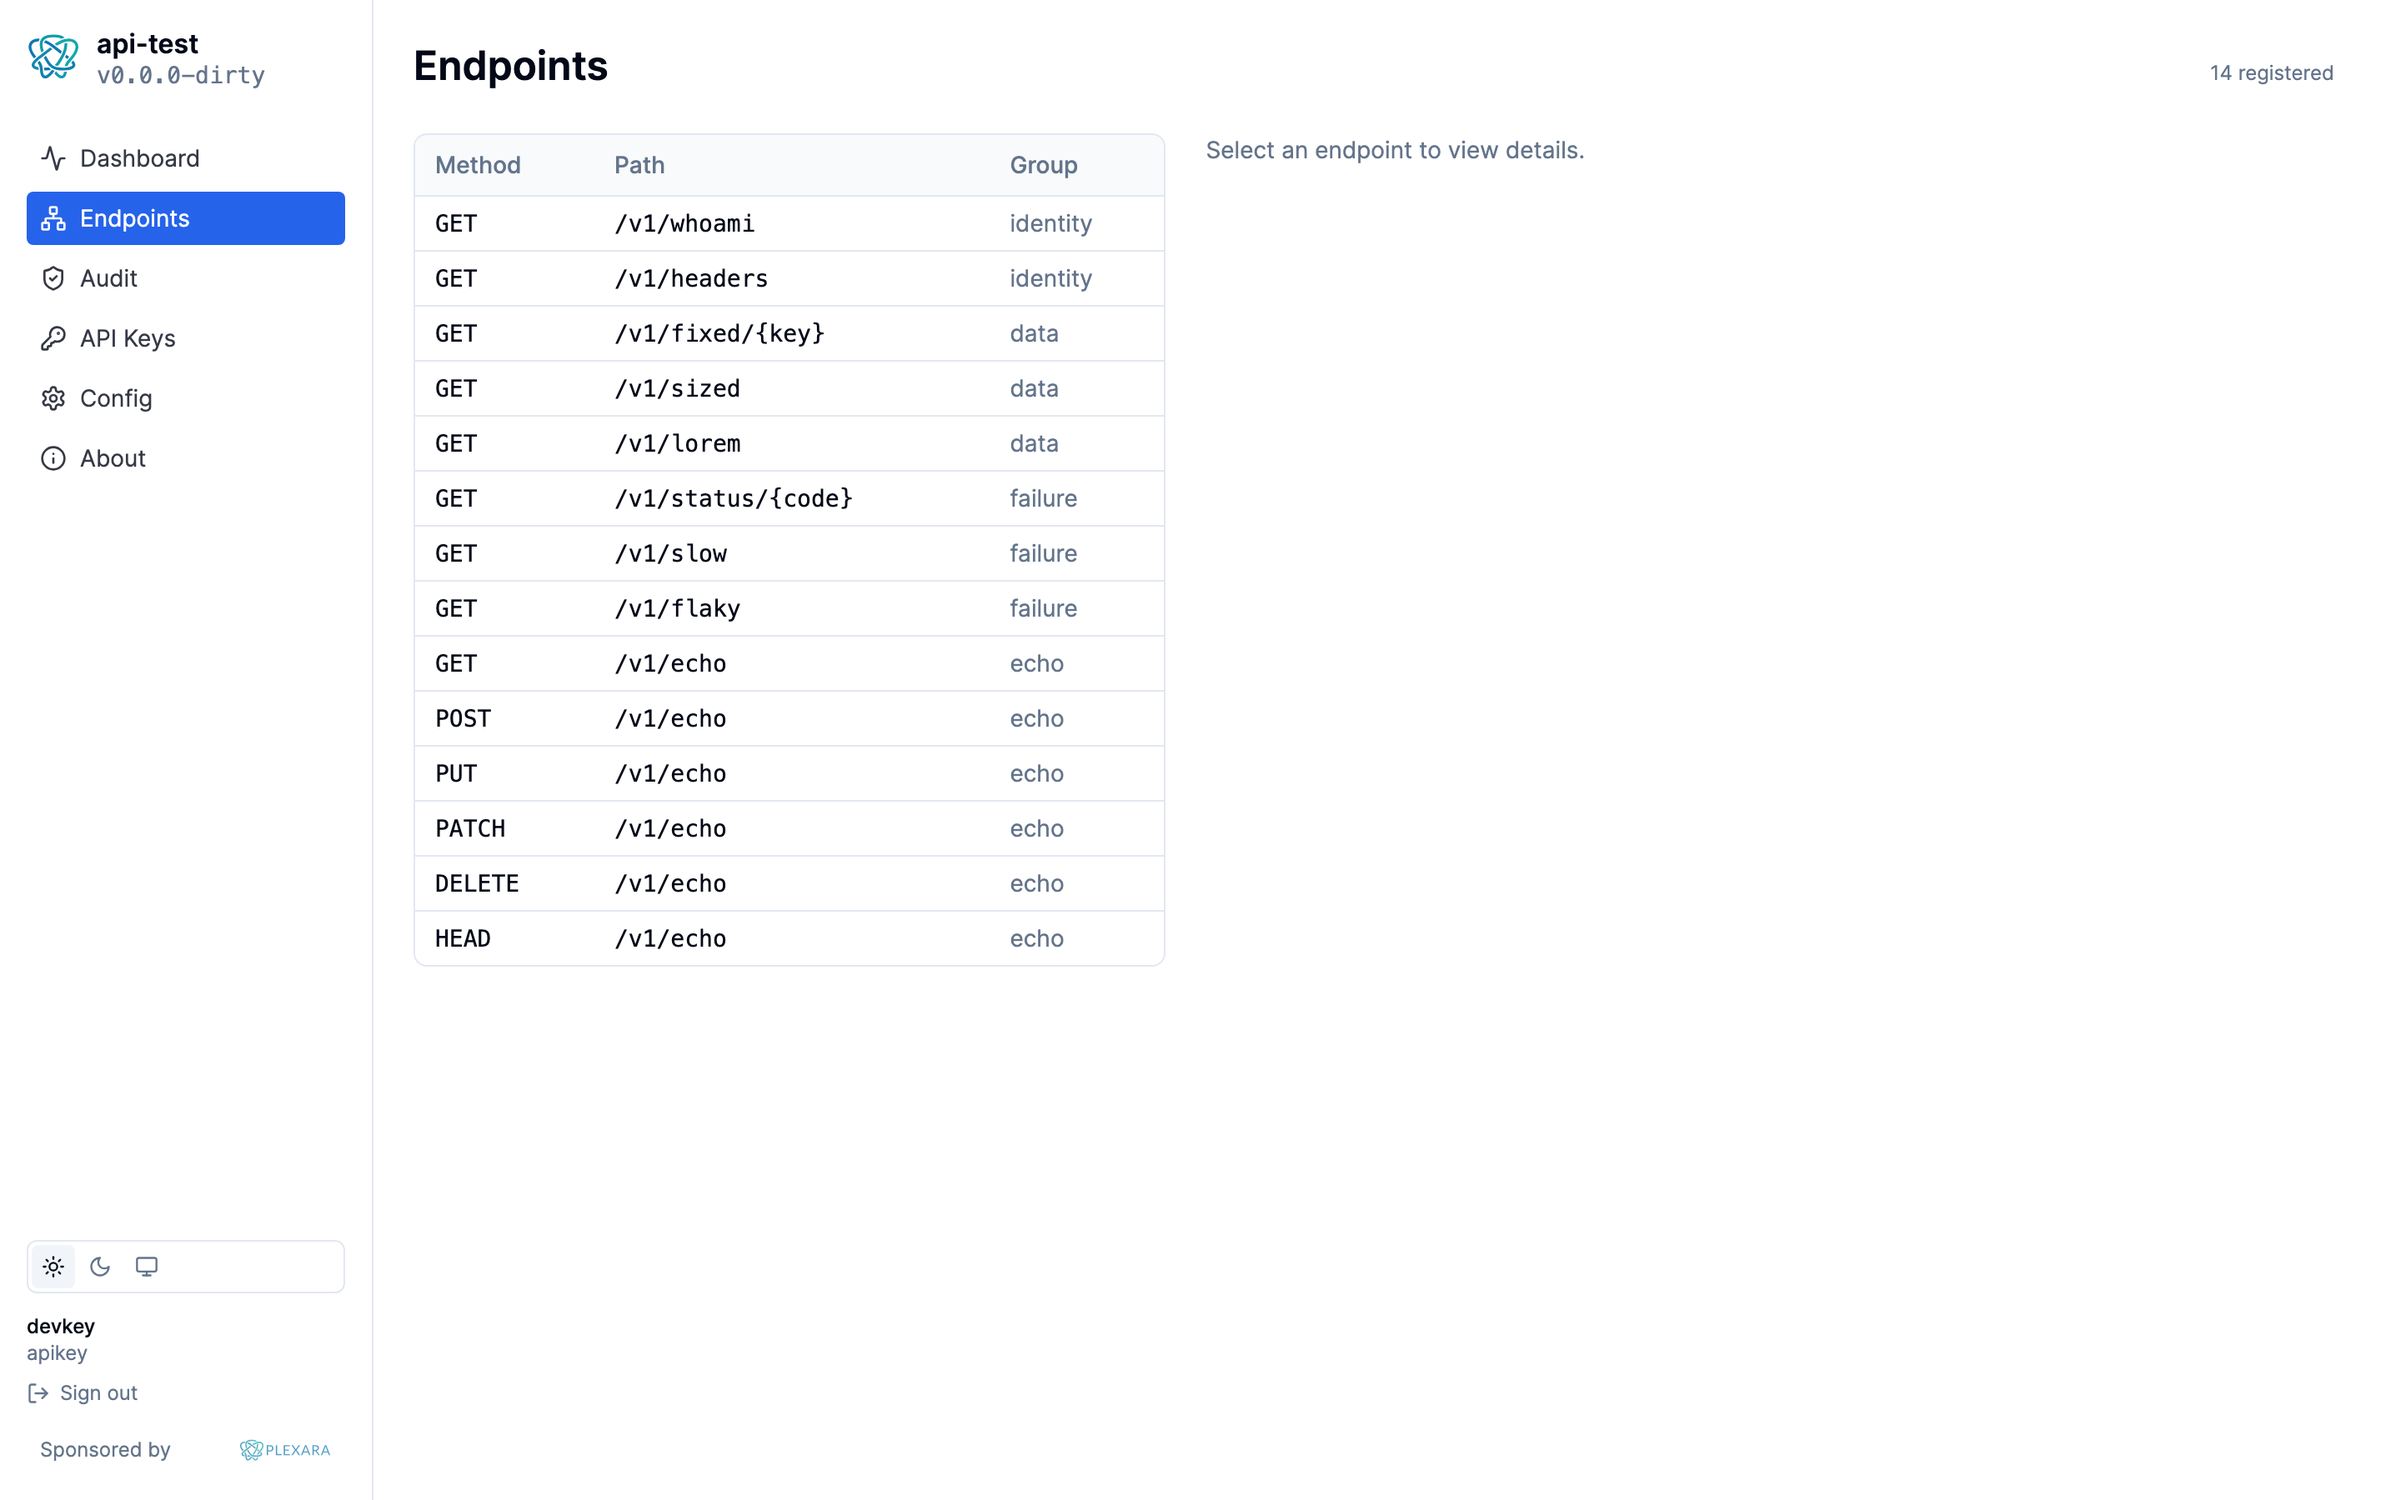
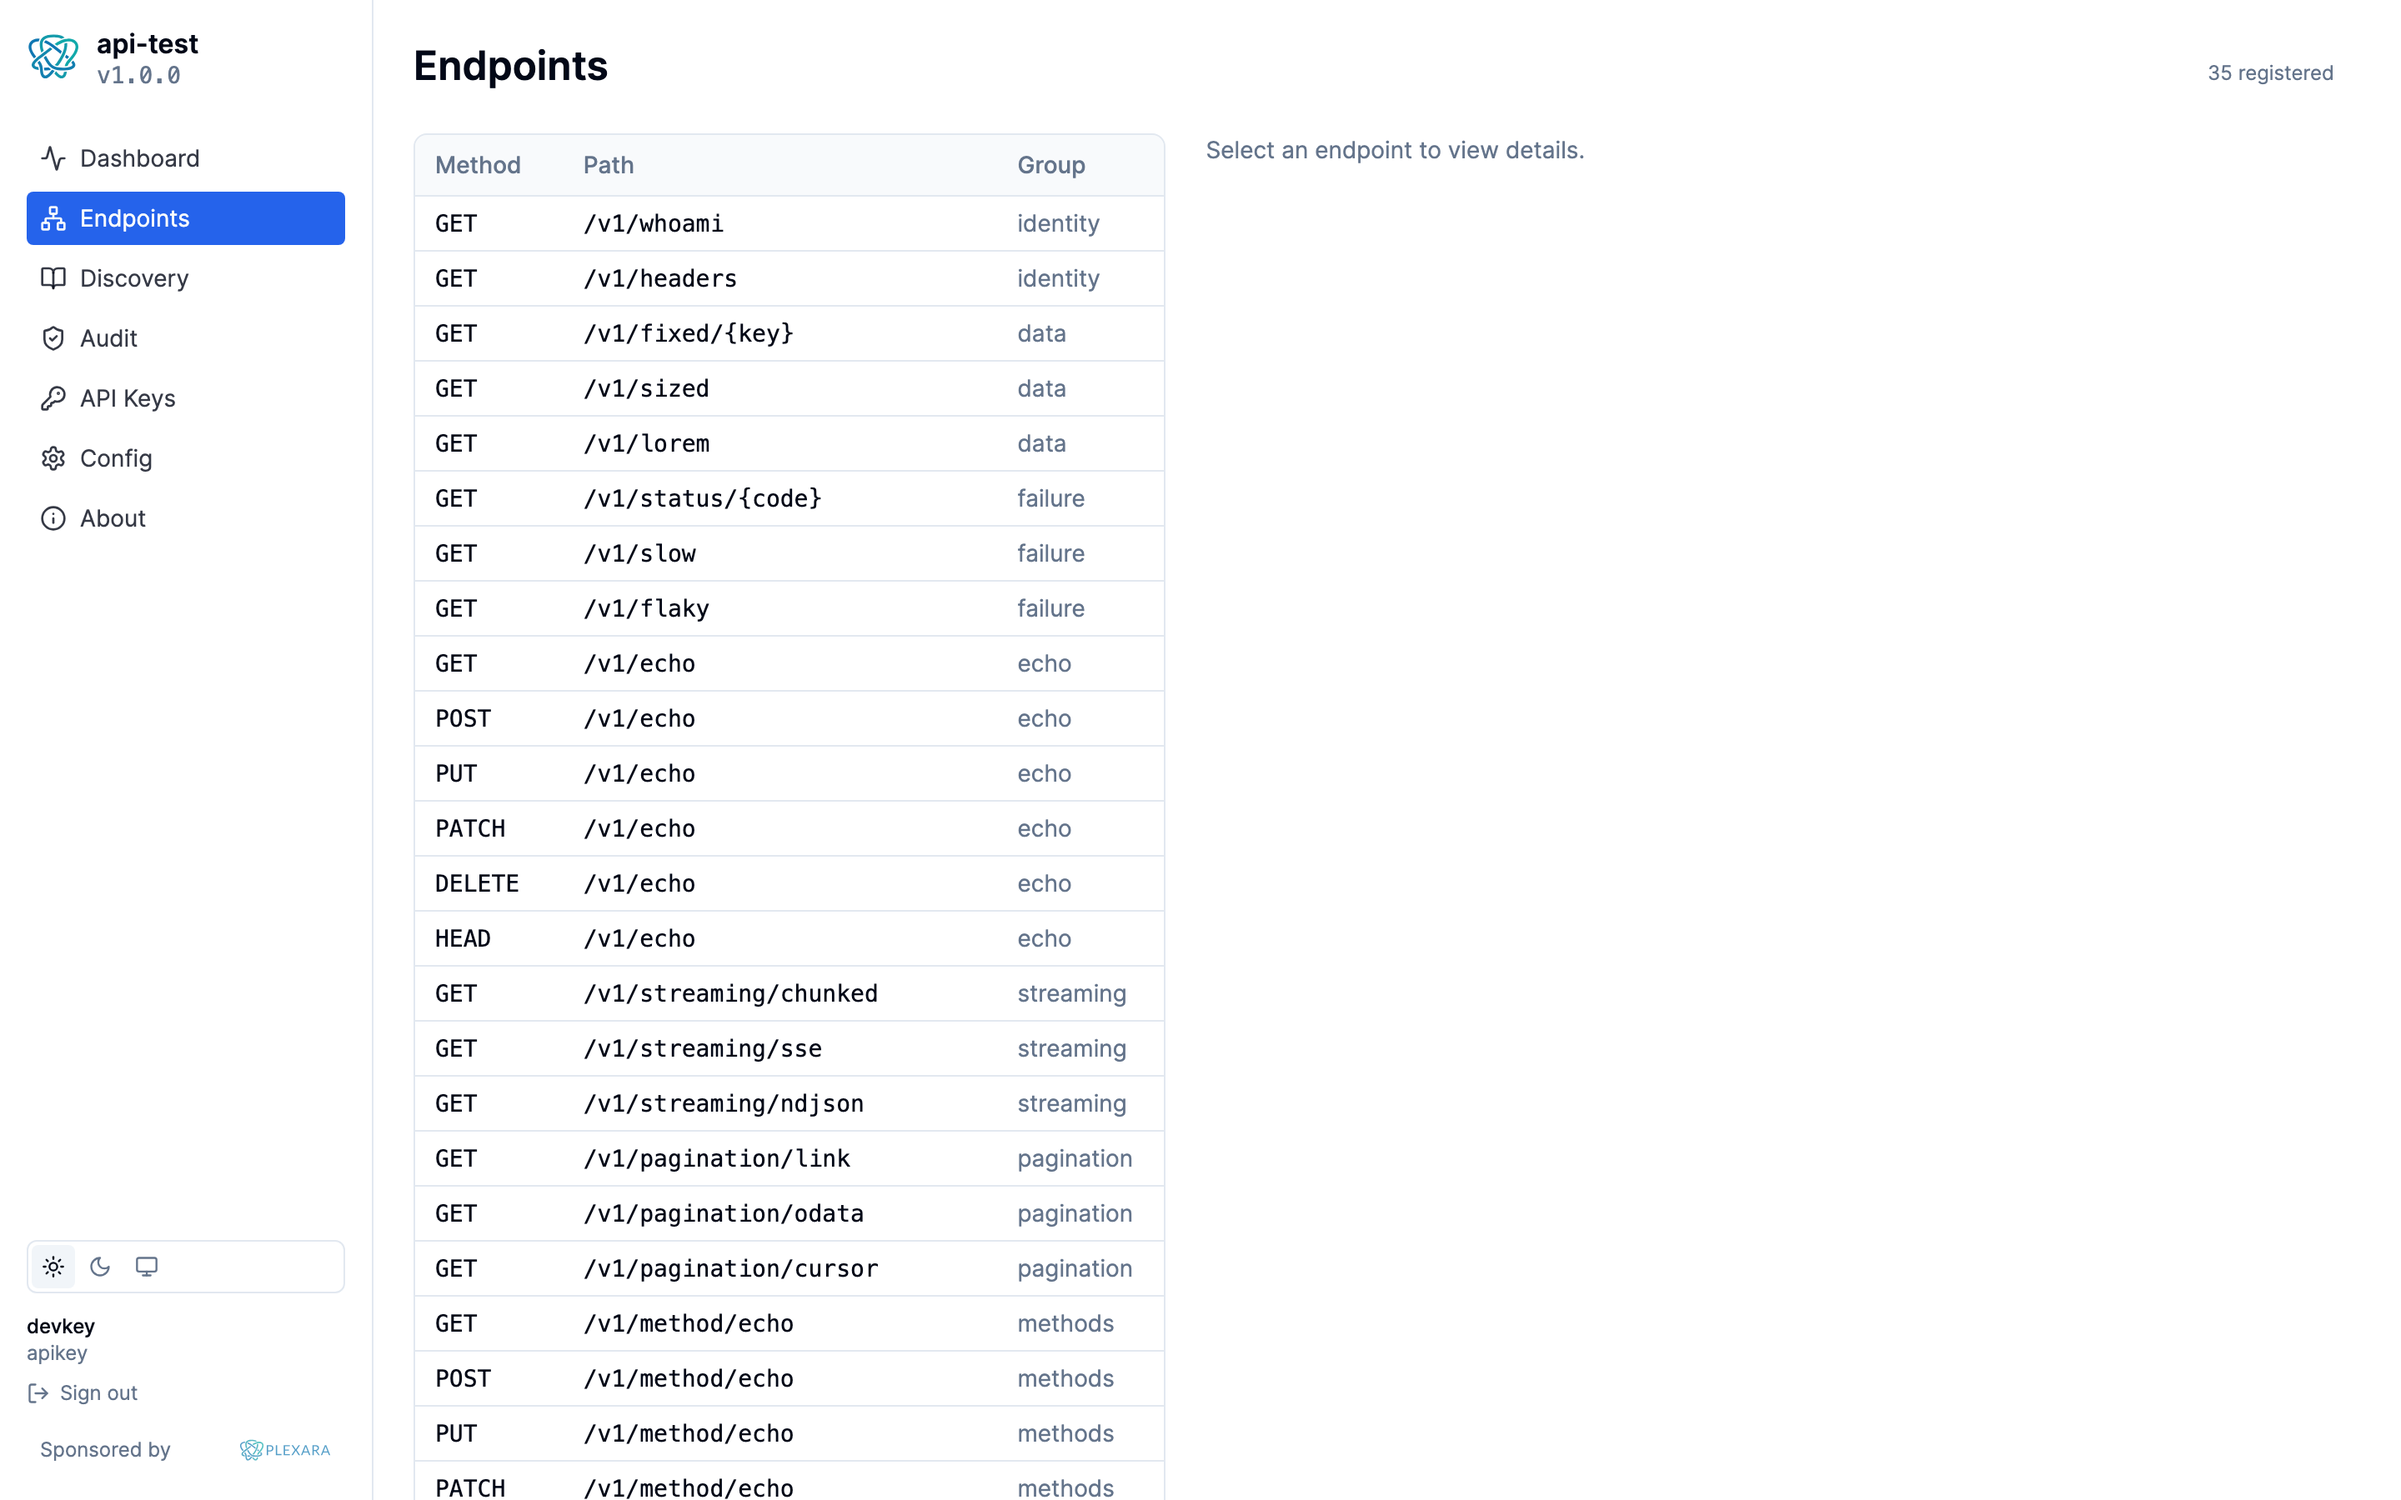
docs: regenerate portal screenshots + add Discovery to capture and docs
The portal UI rewrite (audit pills, sticky detail, native Discovery
viewer) made every committed portal screenshot stale. The homepage
carousel and operations/portal.md showed the old design.

Changes:

- scripts/screenshots/screenshots.mjs: add Discovery to the capture
  list. Pre-expands the first operation card so the screenshot shows
  what the page actually does (parameters table, response schema)
  instead of a closed-card list.
- docs/images/portal/: regenerated all 18 PNGs (light + dark for
  every page) plus 2 new ones for Discovery. Captured against a
  binary built with `make build VERSION=v1.0.0` so the version
  badge reads "v1.0.0" rather than the git-describe "v1.0.0-dirty"
  during in-progress work.
- docs/operations/portal.md: new Discovery section between Endpoints
  and Audit log, with light/dark screenshot embeds.
- docs/overrides/home.html: added Discovery to the carousel; updated
  the Endpoint Detail caption (Try-It panel is shipped, not
  "arrives with").
- ui/src/pages/Discovery.tsx: heading rendered "vv1.0.0" because the
  span unconditionally prepended "v" to an info.version that
  already started with "v". Strip a leading "v" before re-adding.

diff --git a/docs/overrides/home.html b/docs/overrides/home.html
@@ -84,7 +84,8 @@
           ["audit",            "Audit log",       "Every request, filterable by method, path, and success / error. Auto-refreshing on a 5-second interval; click a row to inspect the full request and response."],
           ["audit-detail",     "Inspection panel", "Side-pane detail card with timestamp, duration, request id, identity, remote address, byte counts, and the full headers / query / body trees for both sides of the call."],
           ["endpoints",        "Endpoints",       "Catalog of every registered route, grouped by behavior — identity, deterministic data, echo, controlled failure modes."],
-          ["endpoints-detail", "Endpoint detail", "Method, path, group, auth requirement, and an inline curl hint per route. Try-It panel arrives with the OpenAPI generator in."],
+          ["endpoints-detail", "Endpoint detail", "Method, path, group, auth requirement, and an inline curl hint per route, plus a Try-It panel that dispatches a real call through the portal API."],
+          ["discovery",        "Discovery",       "Native OpenAPI 3.1 reference rendered from /openapi.json — groups, operations, parameters, schemas, examples — with full light / dark parity against the portal's design tokens."],
           ["keys",             "API keys",        "Create or revoke Postgres-backed bcrypt keys. Plaintext is shown once, then never again."],
           ["config",           "Config",          "Read-only view of the running server config, with secrets masked. Useful for sanity-checking what's actually loaded."],
           ["about",            "About",           "Build info plus the same well-known metadata an MCP / API client sees: api endpoint, OIDC issuer, audience."]

diff --git a/ui/src/pages/Discovery.tsx b/ui/src/pages/Discovery.tsx
@@ -248,7 +248,12 @@ function DiscoveryShell({
           <h1 className="text-lg font-semibold flex items-baseline gap-2">
             <span>Discovery</span>
             {info?.version && (
-              <span className="mono text-xs text-muted-foreground">v{info.version}</span>
+              // OpenAPI docs use either "1.0.0" or "v1.0.0" for info.version;
+              // prepending "v" unconditionally produced "vv1.0.0". Strip a
+              // leading "v" before re-adding.
+              <span className="mono text-xs text-muted-foreground">
+                v{info.version.replace(/^v/i, "")}
+              </span>
             )}
           </h1>
           <div className="text-xs text-muted-foreground truncate">{subtitle}</div>

diff --git a/docs/operations/portal.md b/docs/operations/portal.md
@@ -53,6 +53,23 @@ and a curl hint for invoking the route directly.
 ![Endpoints catalog with the right-pane detail card for a selected route, light theme](../images/portal/endpoints-detail-light.png#only-light)
 ![Endpoints catalog with the right-pane detail card for a selected route, dark theme](../images/portal/endpoints-detail-dark.png#only-dark)
 
+## Discovery
+
+A native OpenAPI 3.1 reference rendered directly from
+[/openapi.json](../reference/http-api.md#discovery), with full
+light / dark parity against the portal's design tokens. Operations are
+grouped by tag in a left rail; each card expands to show parameters,
+request body schema, responses, and a minimal example synthesized from
+the schema. The page-level filter searches path, summary, and
+operationId across every operation.
+
+The canonical Redoc view at `/docs` is still served by the binary and
+is linked from the page header (top right) for operators who prefer
+it.
+
+![Discovery page with the tag rail, operation list, and an expanded operation card, light theme](../images/portal/discovery-light.png#only-light)
+![Discovery page with the tag rail, operation list, and an expanded operation card, dark theme](../images/portal/discovery-dark.png#only-dark)
+
 ## Audit log
 
 The Audit page is the filterable, paginated event view. Filters cover
